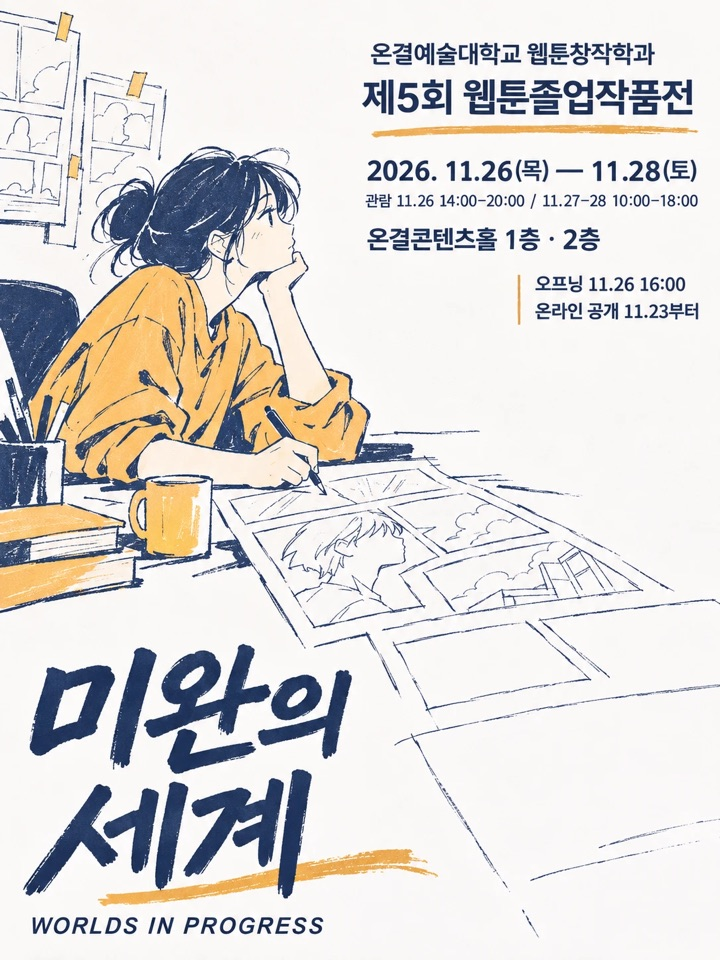
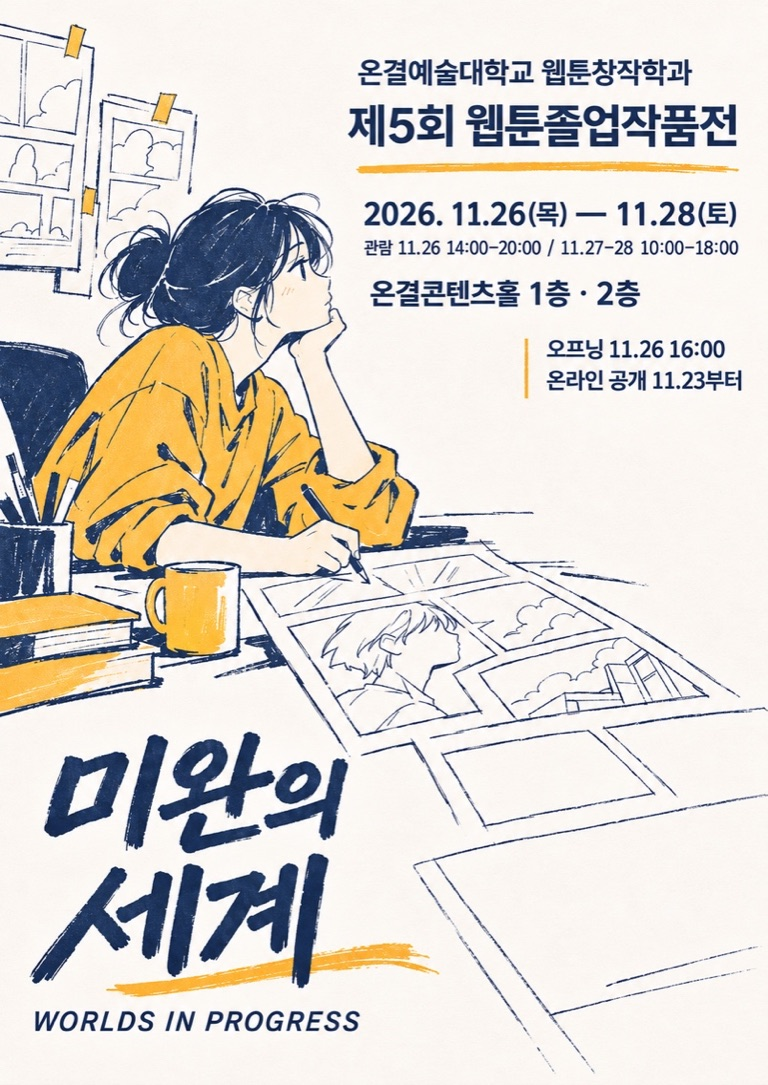
남은 전시 포스터 4장 규격(402:568) 포스터로 교체 + 전시 작업 요약 카드 포스터 잘림 수정

diff --git a/assets/work.css b/assets/work.css
@@ -3,7 +3,7 @@
 
 /* 전시 요약 카드(허브와 같은 모양) */
 .sumc { display: grid; grid-template-columns: 82px minmax(0, 1fr); column-gap: 14px; margin-top: 8px; padding: 12px; border: 1px solid var(--border-primary); border-radius: var(--r12); }
-.sumc .poster { position: relative; }
+.sumc .poster { position: relative; aspect-ratio: 402 / 568; }   /* 11-13 flow.css `.poster`는 3:4라 이 카드만 규격으로 (안 하면 사진 아래가 잘림) */
 .sumc .poster img { width: 82px; height: auto; aspect-ratio: 402 / 568; object-fit: cover; background: var(--bg-secondary); }
 .sumc .tx { display: grid; gap: 2px; align-content: start; min-width: 0; }
 .sumc .top { display: flex; align-items: center; justify-content: space-between; gap: 8px; }
